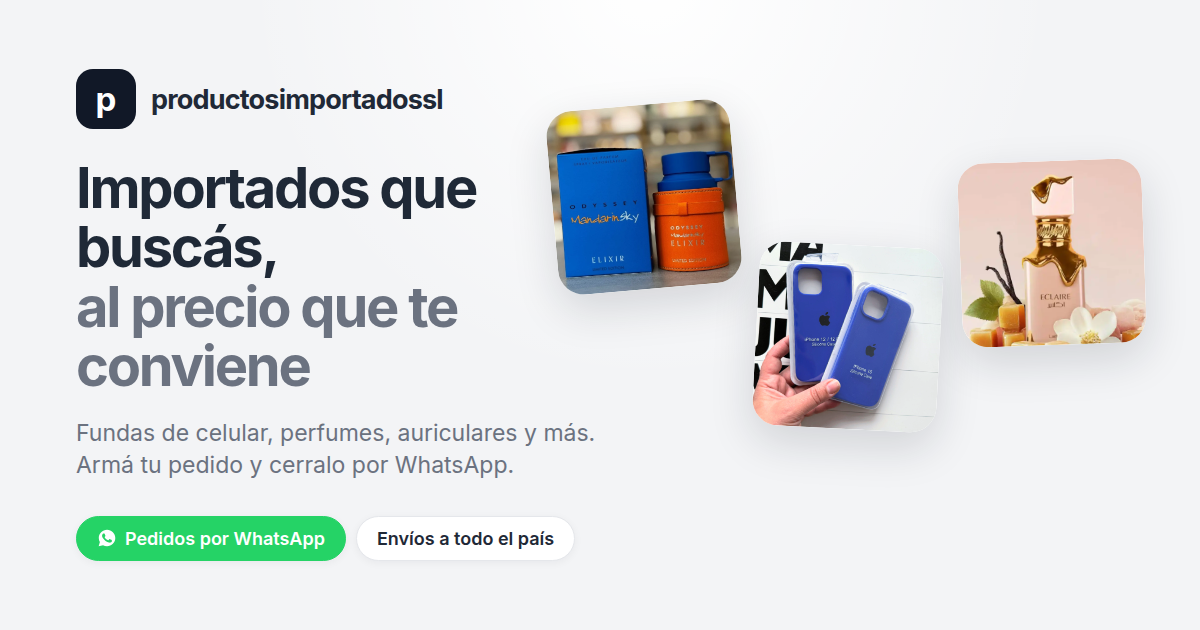
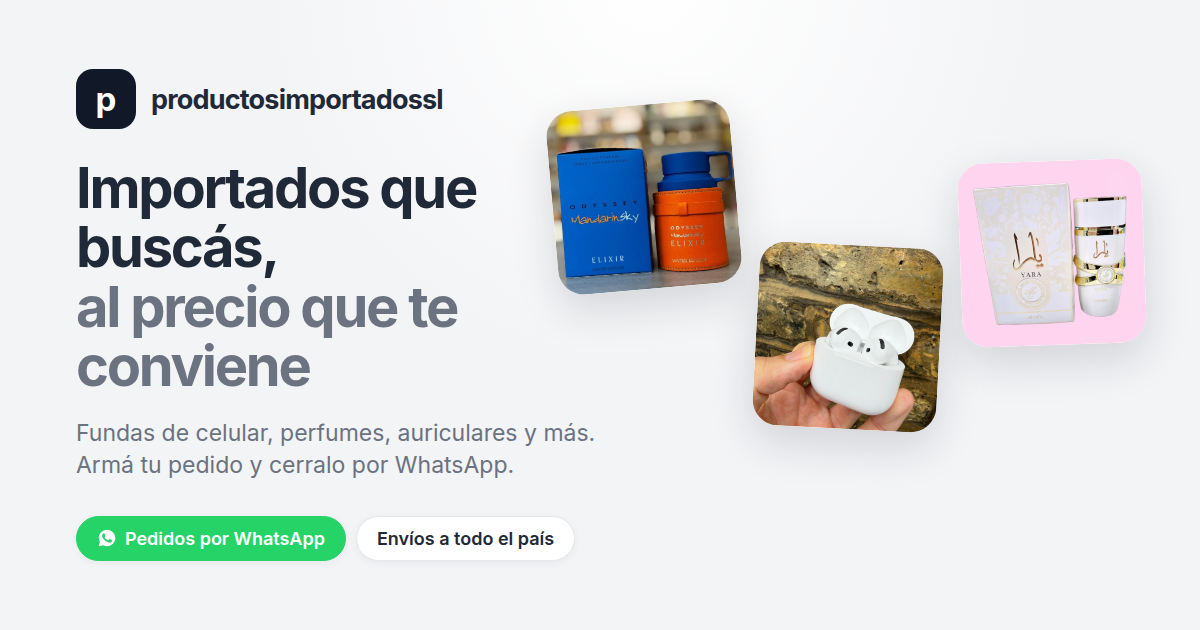
Dejar el catálogo de ejemplo sólo con productos de foto real
Se agregan dos fotos más (auriculares inalámbricos y Lattafa Yara) y se
eliminan los productos que seguían con ilustración, junto con sus 20 archivos.
Quedan cinco productos, todos con foto real: al lado de una foto la ilustración
se notaba enseguida y desluce la demo.

Catálogo: funda de silicona (galería de 3 colores), auriculares inalámbricos,
Lattafa Yara, Odyssey Mandarin Sky Elixir y Eclaire. La categoría Importados
queda sin productos y los chips la ocultan solos, así que no aparece vacía en
la tienda; en el panel sigue estando para poder usarla.

El seed de supabase/schema.sql pasa a los mismos cinco productos, para que el
SQL y el modo demostración no cuenten historias distintas, y se corrigen los
textos que hablaban de 12 productos en el README, el config, el panel y el
mensaje de reinicio.

Los auriculares quedan como "Auriculares inalámbricos" y no con un nombre de
marca: desde la foto no se puede afirmar si son originales o réplica, y
etiquetarlos mal es un problema para quien los vende.

La imagen para compartir se rehace con tres fotos reales.

Ningún producto viene sin stock, así que ese camino se verifica ahora
marcándolo desde el panel: la tienda pasa a mostrar "Sin stock" con el botón de
consulta, que además es una mejor forma de mostrar la función en vivo.

Verificado en el navegador: 5 productos, 5 de 5 fotos cargadas y 0
placeholders, buscador, orden por precio, galería de 3 fotos, pedido por
[…]

Changed region(s): [[0.6167, 0.2413, 0.9558, 0.6937]]

diff --git a/assets/js/demo-data.js b/assets/js/demo-data.js
@@ -1,13 +1,13 @@
 /* ============================================================================
    Datos de demostración
    ----------------------------------------------------------------------------
-   Son exactamente los mismos 12 productos que carga supabase/schema.sql.
+   Los mismos productos que carga supabase/schema.sql. Se usan en el sitio
+   público y en el panel cuando Supabase todavía no está configurado, para poder
+   mostrar la tienda funcionando sin base de datos.
 
-   Las rutas de las fotos arrancan con "/" a propósito: este archivo lo leen
-   tanto la tienda (en /) como el panel (en /admin/), así que una ruta relativa
-   se rompería en uno de los dos.
-   Sólo se usan en el sitio público cuando Supabase todavía no está configurado,
-   para que puedas ver el diseño funcionando antes de conectar la base.
+   Todos tienen foto real. Las rutas arrancan con "/" a propósito: este archivo
+   lo leen tanto la tienda (en /) como el panel (en /admin/), así que una ruta
+   relativa se rompería en uno de los dos.
    ============================================================================ */
 
 export const CATEGORIAS_DEMO = [
@@ -31,18 +31,20 @@ export const PRODUCTOS_DEMO = [
     stock: true, etiqueta: 'Más vendido', destacado: true, activo: true, fecha_creacion: '2026-09-01T10:00:00Z',
   },
   {
-    id: 'p2', nombre: 'Funda transparente antigolpes', categoria: 'Fundas de celular',
-    precio: 9800, precio_anterior: 13900,
-    descripcion: 'Funda rígida transparente con marco reforzado y esquinas con aire. No se pone amarilla y deja ver el color original del celular.',
-    imagenes: ['/assets/img/productos/funda-transparente-1.png', '/assets/img/productos/funda-transparente-2.png'], variantes: ['iPhone 15', 'iPhone 14', 'Samsung A34', 'Samsung A54', 'Xiaomi Redmi Note 13'],
-    stock: true, etiqueta: 'Oferta', destacado: true, activo: true, fecha_creacion: '2026-09-02T10:00:00Z',
+    id: 'p2', nombre: 'Auriculares inalámbricos', categoria: 'Auriculares',
+    precio: 26900, precio_anterior: null,
+    descripcion: 'Estuche con carga y hasta 20 horas de uso. Se conectan solos al abrir el estuche, tienen micrófono para llamadas y controles táctiles.',
+    imagenes: ['/assets/img/productos/real-auriculares-tws.png'],
+    variantes: ['Blanco'],
+    stock: true, etiqueta: 'Más vendido', destacado: true, activo: true, fecha_creacion: '2026-09-04T10:00:00Z',
   },
   {
-    id: 'p3', nombre: 'Funda libro con tarjetero', categoria: 'Fundas de celular',
-    precio: 15900, precio_anterior: null,
-    descripcion: 'Funda tipo libro en eco cuero, con dos espacios para tarjetas y soporte para ver videos. Cierre magnético.',
-    imagenes: ['/assets/img/productos/funda-libro-1.png'], variantes: ['iPhone 14', 'iPhone 13', 'Samsung A54', 'Motorola G54'],
-    stock: true, etiqueta: null, destacado: false, activo: true, fecha_creacion: '2026-09-03T10:00:00Z',
+    id: 'p3', nombre: 'Lattafa Yara', categoria: 'Perfumes',
+    precio: 39900, precio_anterior: null,
+    descripcion: 'Eau de parfum femenino, dulce y floral, de mucha duración. Presentación blanca y dorada, con su caja original. De los más pedidos.',
+    imagenes: ['/assets/img/productos/real-perfume-yara.png'],
+    variantes: ['100 ml'],
+    stock: true, etiqueta: 'Importado', destacado: true, activo: true, fecha_creacion: '2026-09-06T10:00:00Z',
   },
   {
     id: 'p4', nombre: 'Odyssey Mandarin Sky Elixir', categoria: 'Perfumes',
@@ -50,7 +52,7 @@ export const PRODUCTOS_DEMO = [
     descripcion: 'Eau de parfum en edición limitada. Arranca cítrico y se asienta en notas dulces y amaderadas, con mucha duración. Viene con su caja original.',
     imagenes: ['/assets/img/productos/real-perfume-odyssey.png'],
     variantes: ['100 ml'],
-    stock: true, etiqueta: 'Importado', destacado: true, activo: true, fecha_creacion: '2026-09-04T10:00:00Z',
+    stock: true, etiqueta: 'Importado', destacado: false, activo: true, fecha_creacion: '2026-09-08T10:00:00Z',
   },
   {
     id: 'p5', nombre: 'Eclaire', categoria: 'Perfumes',
@@ -58,55 +60,6 @@ export const PRODUCTOS_DEMO = [
     descripcion: 'Perfume femenino dulce, con vainilla, caramelo y un fondo floral suave. Fijación de 6 a 8 horas. De los más elegidos para regalo.',
     imagenes: ['/assets/img/productos/real-perfume-eclaire.png'],
     variantes: ['100 ml'],
-    stock: true, etiqueta: 'Oferta', destacado: false, activo: true, fecha_creacion: '2026-09-05T10:00:00Z',
-  },
-  {
-    id: 'p6', nombre: 'Set de body splash x3', categoria: 'Perfumes',
-    precio: 18500, precio_anterior: null,
-    descripcion: 'Combo de tres body splash de 250 ml con aromas frutales. Rinde muchísimo y se puede usar todos los días.',
-    imagenes: ['/assets/img/productos/body-splash-1.png'], variantes: ['Frutal', 'Cítrico', 'Dulce', 'Combo surtido'],
-    stock: true, etiqueta: 'Nuevo', destacado: false, activo: true, fecha_creacion: '2026-09-06T10:00:00Z',
-  },
-  {
-    id: 'p7', nombre: 'Auriculares inalámbricos TWS', categoria: 'Auriculares',
-    precio: 26900, precio_anterior: null,
-    descripcion: 'Bluetooth 5.3, estuche con carga y hasta 20 horas de uso. Controles táctiles, micrófono para llamadas y conexión automática al abrir el estuche.',
-    imagenes: ['/assets/img/productos/tws-1.png', '/assets/img/productos/tws-2.png'], variantes: ['Negro', 'Blanco'],
-    stock: true, etiqueta: 'Más vendido', destacado: true, activo: true, fecha_creacion: '2026-09-07T10:00:00Z',
-  },
-  {
-    id: 'p8', nombre: 'Auriculares gamer con micrófono', categoria: 'Auriculares',
-    precio: 32500, precio_anterior: 41900,
-    descripcion: 'Vincha acolchada, sonido envolvente y micrófono flexible con cancelación de ruido. Conexión por cable, compatible con PC, PS y celular.',
-    imagenes: ['/assets/img/productos/gamer-1.png', '/assets/img/productos/gamer-2.png'], variantes: ['Negro/Rojo', 'Negro/Azul'],
-    stock: true, etiqueta: 'Oferta', destacado: false, activo: true, fecha_creacion: '2026-09-08T10:00:00Z',
-  },
-  {
-    id: 'p9', nombre: 'Auriculares in-ear con cable', categoria: 'Auriculares',
-    precio: 7900, precio_anterior: null,
-    descripcion: 'Clásicos in-ear con manos libres y control de volumen. Conector 3.5 mm. La opción práctica y económica.',
-    imagenes: ['/assets/img/productos/inear-1.png'], variantes: ['Negro', 'Blanco'],
-    stock: false, etiqueta: null, destacado: false, activo: true, fecha_creacion: '2026-09-09T10:00:00Z',
-  },
-  {
-    id: 'p10', nombre: 'Parlante bluetooth portátil', categoria: 'Importados',
-    precio: 39900, precio_anterior: null,
-    descripcion: 'Parlante compacto resistente a salpicaduras, 10 W reales, luces LED y hasta 8 horas de batería. Entra en la mochila.',
-    imagenes: ['/assets/img/productos/parlante-1.png', '/assets/img/productos/parlante-2.png'], variantes: ['Negro', 'Azul', 'Rojo'],
-    stock: true, etiqueta: 'Importado', destacado: true, activo: true, fecha_creacion: '2026-09-10T10:00:00Z',
-  },
-  {
-    id: 'p11', nombre: 'Smartwatch deportivo', categoria: 'Importados',
-    precio: 45900, precio_anterior: 58900,
-    descripcion: 'Pantalla a color, notificaciones del celular, medición de pasos, ritmo cardíaco y sueño. Incluye dos mallas de regalo.',
-    imagenes: ['/assets/img/productos/smartwatch-1.png', '/assets/img/productos/smartwatch-2.png'], variantes: ['Negro', 'Rosa', 'Plata'],
-    stock: true, etiqueta: 'Oferta', destacado: true, activo: true, fecha_creacion: '2026-09-11T10:00:00Z',
-  },
-  {
-    id: 'p12', nombre: 'Cargador rápido 20W + cable', categoria: 'Importados',
-    precio: 14500, precio_anterior: null,
-    descripcion: 'Cargador con carga rápida y protección contra sobrecarga, más cable reforzado de 1 metro. Elegí el tipo de cable que necesitás.',
-    imagenes: ['/assets/img/productos/cargador-1.png'], variantes: ['Cable Tipo C', 'Cable Lightning', 'Cable Micro USB'],
-    stock: true, etiqueta: 'Nuevo', destacado: false, activo: true, fecha_creacion: '2026-09-12T10:00:00Z',
+    stock: true, etiqueta: 'Oferta', destacado: false, activo: true, fecha_creacion: '2026-09-10T10:00:00Z',
   },
 ];

diff --git a/assets/js/admin.js b/assets/js/admin.js
@@ -80,7 +80,7 @@ document.addEventListener('DOMContentLoaded', async () => {
 /**
  * Deja el panel listo para mostrárselo a alguien: pone a la vista las
  * credenciales de la demo (y las precarga, para entrar con un toque), marca la
- * cabecera y habilita el botón que devuelve el catálogo a los 12 productos.
+ * cabecera y habilita el botón que devuelve el catálogo a los productos de ejemplo.
  */
 async function prepararDemo() {
   const { CREDENCIALES_DEMO } = api;
@@ -103,7 +103,7 @@ async function prepararDemo() {
 async function reiniciarDemo() {
   pedirConfirmacion({
     titulo: '¿Reiniciar la demostración?',
-    texto: 'El catálogo vuelve a los 12 productos de ejemplo y se descarta todo lo que hayas cargado o cambiado.',
+    texto: 'El catálogo vuelve a los productos de ejemplo y se descarta todo lo que hayas cargado o cambiado.',
     textoBoton: 'Reiniciar',
     accion: async () => {
       const { reiniciar } = await import('./demo-estado.js');

diff --git a/assets/js/config.js b/assets/js/config.js
@@ -35,7 +35,7 @@ export const TIENDA = {
   instagramUsuario: '@productosimportadossl',
 
   // Si está en true y Supabase todavía no está configurado, el sitio muestra
-  // 12 productos de ejemplo para que puedas ver el diseño funcionando.
+  // los productos de ejemplo para que puedas ver el diseño funcionando.
   demoSiNoHayBaseDeDatos: true,
 
   // El cartel amarillo que avisa "estás viendo productos de ejemplo".

diff --git a/assets/js/demo-estado.js b/assets/js/demo-estado.js
@@ -50,7 +50,7 @@ export function guardar(datos) {
   }
 }
 
-/** Vuelve a los 12 productos originales. */
+/** Vuelve al catálogo de ejemplo original. */
 export function reiniciar() {
   try {
     localStorage.removeItem(CLAVE);

diff --git a/README.md b/README.md
@@ -24,13 +24,13 @@ assets/
   js/utils.js              Formato de precios, búsqueda, avisos
   js/tienda.js             Lógica del sitio público
   js/admin.js              Lógica del panel
-  js/demo-data.js          Los 12 productos de ejemplo
+  js/demo-data.js          Los productos de ejemplo, todos con foto real
   js/demo-estado.js        El catálogo de la demo, guardado en el navegador
   js/demo-db.js            Respaldo del panel en modo demo (misma interfaz que db.js)
   img/og.png               Imagen para compartir en WhatsApp / Instagram
   img/favicon.svg          Icono del sitio
   img/productos/           Fotos de los productos de ejemplo (real-*.png son reales)
-supabase/schema.sql        SQL completo: tablas, RLS, bucket y 12 productos
+supabase/schema.sql        SQL completo: tablas, RLS, bucket y productos de ejemplo
 vercel.json                Configuración del deploy
 ```
 
@@ -59,10 +59,10 @@ Eso crea:
   `activo = true`; crear, editar y borrar requiere una sesión iniciada.
 - El bucket de Storage **`productos`** para las fotos, público para lectura y
   escribible sólo por el admin logueado.
-- 4 categorías y **12 productos de ejemplo** (3 por categoría).
+- 4 categorías y **5 productos de ejemplo**, los mismos del modo demostración.
 
 El script se puede volver a ejecutar cuando quieras: las tablas y las políticas se
-recrean sin romper nada, y **los 12 productos de ejemplo se cargan sólo si la tabla
+recrean sin romper nada, y **los productos de ejemplo se cargan sólo si la tabla
 está vacía**, así que no te va a duplicar tu catálogo real.
 
 ### 3. Crear el usuario del vendedor y cerrar el registro
@@ -243,7 +243,7 @@ Detalles que ya están resueltos:
 ## Modo demo
 
 Si `assets/js/config.js` todavía no tiene credenciales reales, el sitio público
-muestra **12 productos de ejemplo** y un cartel amarillo avisándolo. Sirve para ver
+muestra **los productos de ejemplo** y un cartel amarillo avisándolo. Sirve para ver
 el diseño antes de conectar la base. El panel, en cambio, no deja entrar: te dice
 que falta configurar Supabase.
 
@@ -252,9 +252,9 @@ que falta configurar Supabase.
 `mostrarAvisoDeDemo` ya está en **`false`**, así que si subís esto a Vercel tal
 como está tenés una tienda que se ve y funciona como una tienda real:
 
-- Los 12 productos con sus fotos
+- Los 5 productos, todos con foto real
 - Buscador, filtros por categoría y orden por precio
-- Galería de fotos en 7 de los 12 productos
+- Galería de 3 fotos en la funda de silicona
 - Carrito completo y pedido por WhatsApp al número configurado
 
 Todo eso **sin base de datos ni cuenta de Supabase**. Es la forma más rápida de
@@ -272,7 +272,7 @@ borrar, usar los botones rápidos y administrar categorías. Todo real, pero con
 el navegador en lugar de una base de datos: lo que hacés queda en ese dispositivo,
 no viaja a ningún servidor y no afecta a nadie más.
 
-El botón **«Reiniciar la demo»** devuelve el catálogo a los 12 productos
+El botón **«Reiniciar la demo»** devuelve el catálogo a los productos
 originales, para poder repetir la presentación de cero.
 
 Si te ponés a desarrollar, pasá `mostrarAvisoDeDemo` a `true`: vuelve el cartel
@@ -298,15 +298,15 @@ El paso 5 es el que mejor explica el producto: el vendedor carga y se publica.
 
 ### Las fotos de los productos de ejemplo
 
-En `assets/img/productos/` convive todo mezclado:
+Las siete imágenes de `assets/img/productos/` son **fotos reales**, recortadas a
+cuadrado para que entren en la grilla sin que se corte el producto.
 
-- Los archivos **`real-*.png`** son fotos reales de productos, usadas en la funda
-  de silicona y en los dos perfumes.
-- El resto son **ilustraciones** hechas para este proyecto (sin problemas de
-  licencia, pero no son fotos).
+El catálogo de ejemplo tiene sólo cinco productos a propósito: entran únicamente
+los que tienen foto real. Una ilustración al lado de una foto se nota enseguida y
+desluce la demo.
 
-Se nota la diferencia: las fotos reales venden bastante más. Faltan fotos de nueve
-productos, y para mostrarle la demo a alguien conviene reemplazarlas todas.
+Para sumar productos, poné la foto en esa carpeta y agregá la entrada en
+`assets/js/demo-data.js` (o cargalos desde el panel, si ya conectaste la base).
 
 Cuando tengas las fotos de verdad, hay dos caminos:
 
